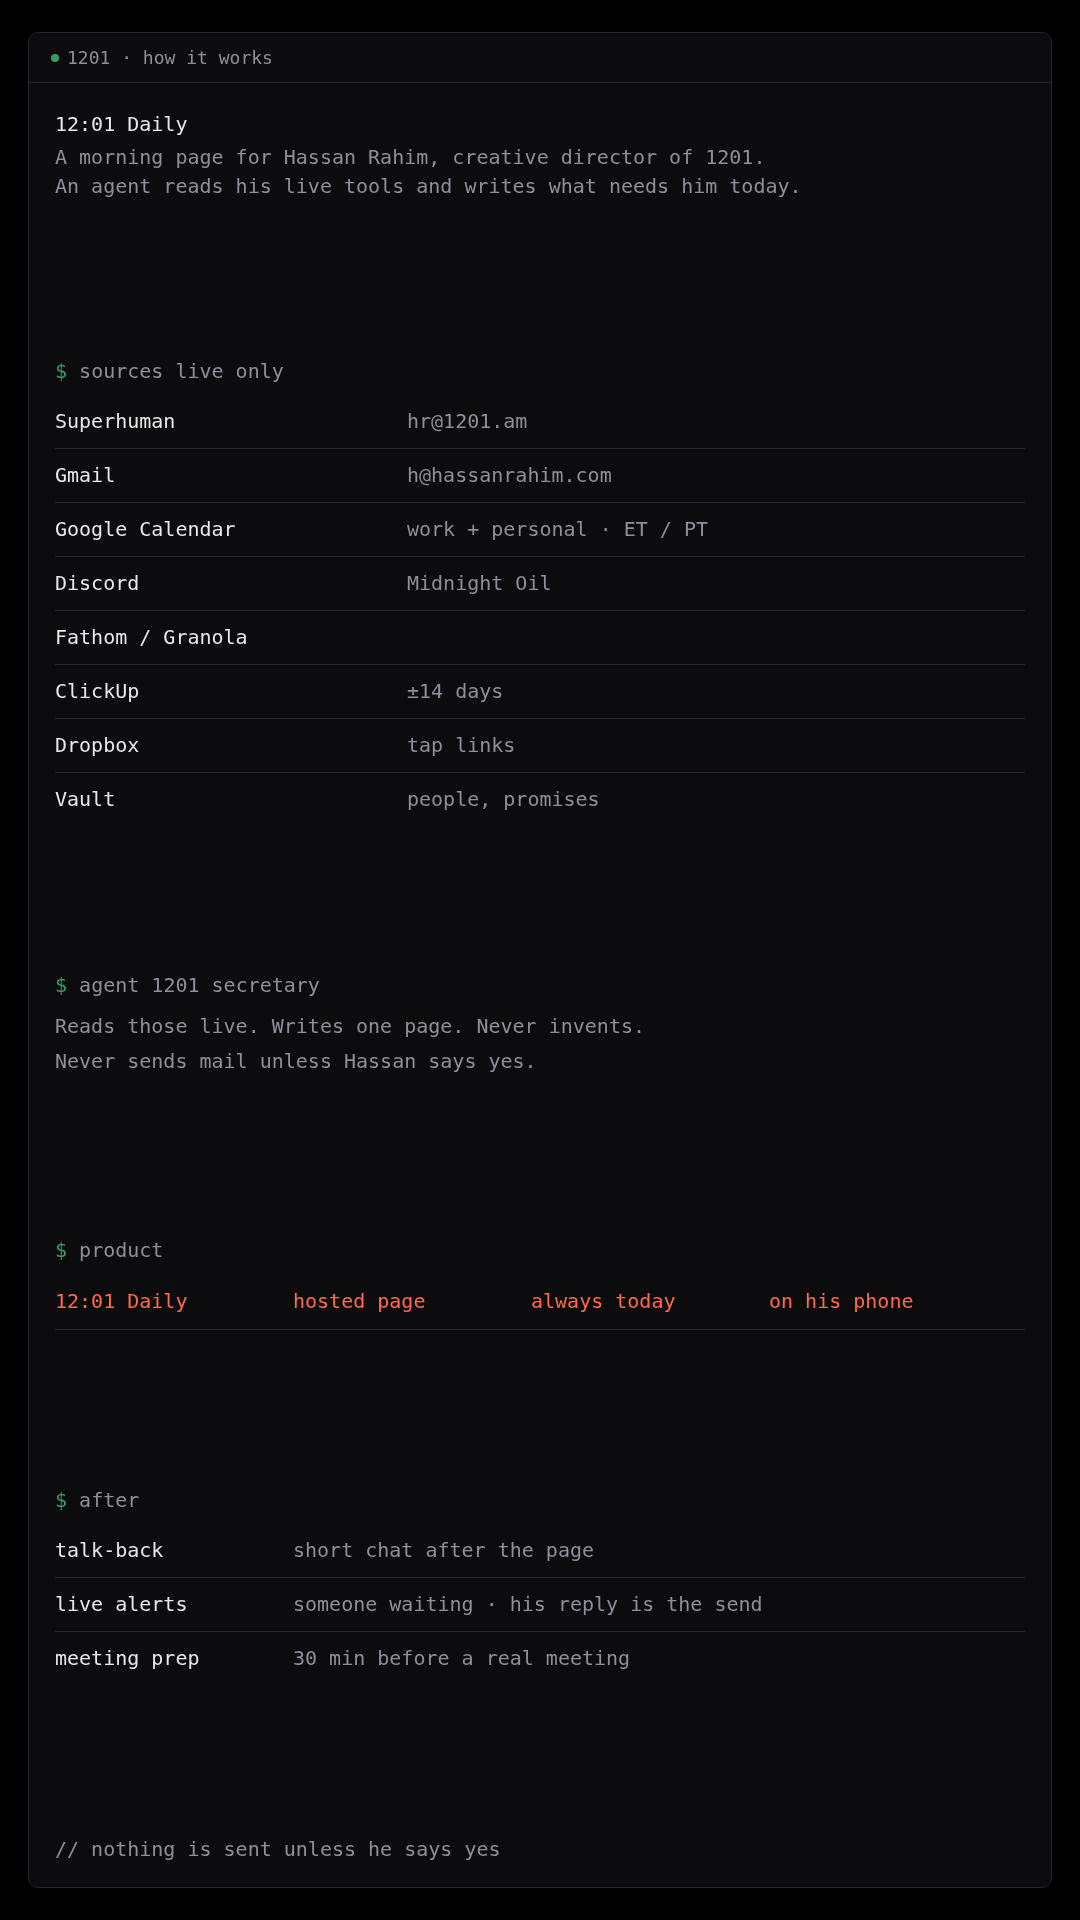
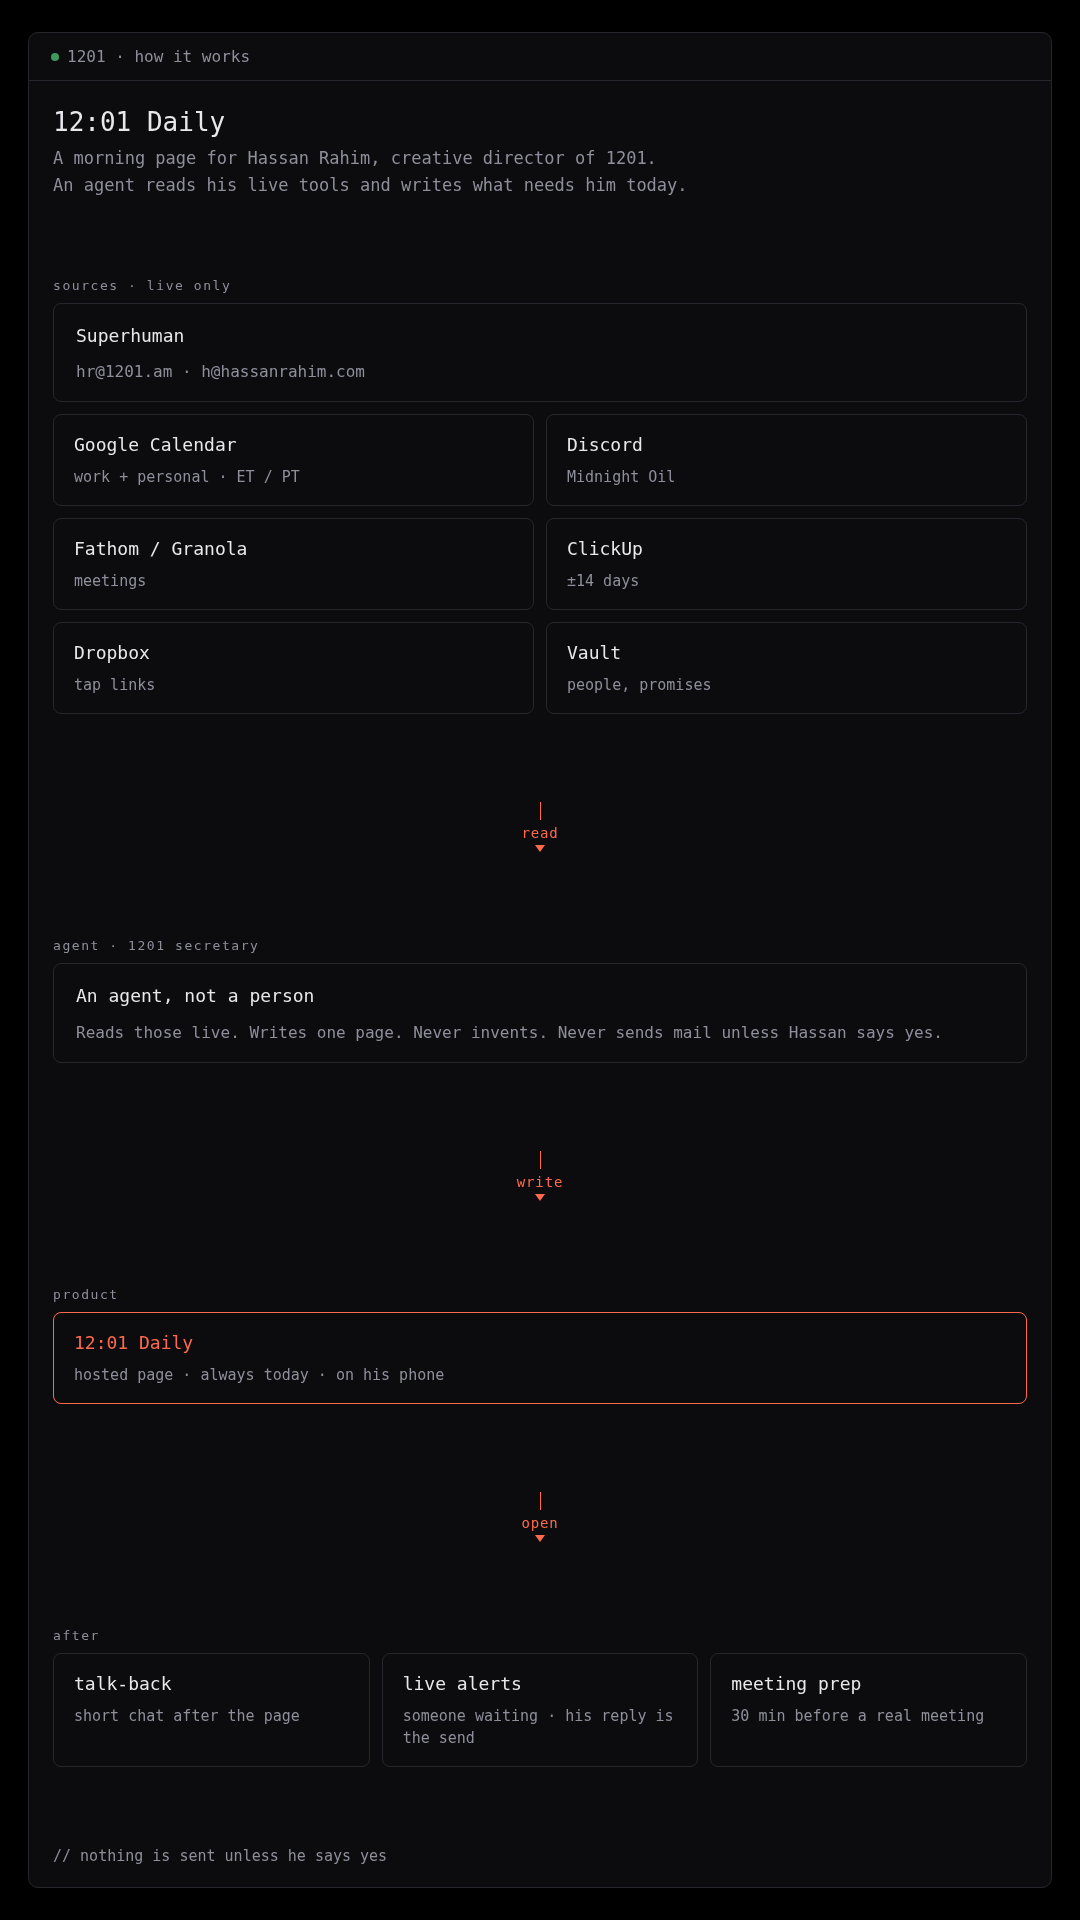
CLI flowchart: agent, service-name sources
Proposal pages only. Live Daily unchanged.

diff --git a/proposals/system/how.html b/proposals/system/how.html
@@ -4,7 +4,7 @@
 <meta charset="utf-8">
 <meta name="viewport" content="width=device-width, initial-scale=1">
 <title>12:01 Daily · How it works</title>
-<link rel="stylesheet" href="system.css?v=9">
+<link rel="stylesheet" href="system.css?v=10">
 <style>
 .lede { margin: 0 0 8px; font-size: 17px; line-height: 1.5; }
 .box {
@@ -18,14 +18,53 @@
 .box p { margin: 0; color: var(--muted); font-size: 15px; line-height: 1.5; }
 .box.peak { border-color: var(--accent); }
 .arr { text-align: center; color: var(--accent); font-size: 13px; font-weight: 620; letter-spacing: 0.08em; text-transform: uppercase; padding: 2px 0 12px; }
-.term .lg .ln { display: flex; flex-wrap: wrap; gap: 0 10px; padding: 8px 0; border-bottom: 1px solid var(--rule); margin: 0; color: var(--muted); }
-.term .lg .ln:last-child { border-bottom: none; padding-bottom: 2px; }
-.term .lg .k { color: var(--fg); min-width: 10.5em; }
-.term .peakline { color: var(--accent); padding: 8px 0; }
-.term .cmd { color: var(--muted); margin: 12px 0 4px; }
-.term .cmd:first-child { margin-top: 0; }
-.term .cmd .dl { color: var(--ok); }
-.term .note { color: var(--muted); margin: 0 0 3px; }
+.term .sec {
+  color: var(--muted);
+  font-size: 12px;
+  letter-spacing: 0.12em;
+  text-transform: lowercase;
+  padding: 4px 0 10px;
+}
+.term .col { display: flex; flex-direction: column; gap: 10px; }
+.term .row2 { display: grid; grid-template-columns: 1fr 1fr; gap: 10px; }
+.term .row3 { display: grid; grid-template-columns: 1fr; gap: 10px; }
+@media (min-width: 560px) {
+  .term .row3 { grid-template-columns: 1fr 1fr 1fr; }
+}
+.term .sbox {
+  background: transparent;
+  border: 1px solid var(--rule);
+  border-radius: 8px;
+  padding: 14px 16px 12px;
+}
+.term .sbox .k { color: var(--fg); }
+.term .sbox .v { color: var(--muted); margin-top: 8px; }
+.term .sbox.peak { border-color: var(--accent); }
+.term .sbox.peak .k { color: var(--accent); }
+.term .flow {
+  display: flex;
+  flex-direction: column;
+  align-items: center;
+  padding: 12px 0 10px;
+}
+.term .flow .spine {
+  width: 1px;
+  height: 16px;
+  background: var(--accent);
+}
+.term .flow .lab {
+  color: var(--accent);
+  font-size: 13px;
+  letter-spacing: 0.06em;
+  padding: 5px 0 4px;
+}
+.term .flow .head {
+  width: 0;
+  height: 0;
+  border-left: 5px solid transparent;
+  border-right: 5px solid transparent;
+  border-top: 7px solid var(--accent);
+}
 </style>
 </head>
 <body>
@@ -48,27 +87,49 @@
     <div class="term">
       <div class="term-hd"><span class="dot" aria-hidden="true"></span>1201 · how it works</div>
       <div class="term-bd">
-        <div class="cmd"><span class="dl">$</span> sources   live only</div>
-        <div class="lg">
-          <div class="ln"><span class="k">Superhuman</span><span>hr@1201.am</span></div>
-          <div class="ln"><span class="k">Gmail</span><span>h@hassanrahim.com</span></div>
-          <div class="ln"><span class="k">Google Calendar</span><span>work + personal · ET / PT</span></div>
-          <div class="ln"><span class="k">Discord</span><span>Midnight Oil</span></div>
-          <div class="ln"><span class="k">Fathom / Granola</span></div>
-          <div class="ln"><span class="k">ClickUp</span><span>±14 days</span></div>
-          <div class="ln"><span class="k">Dropbox</span><span>tap links</span></div>
-          <div class="ln"><span class="k">Vault</span><span>people, promises</span></div>
+        <div class="sec">sources · live only</div>
+        <div class="col">
+          <div class="sbox">
+            <div class="k">Superhuman</div>
+            <div class="v">hr@1201.am · h@hassanrahim.com</div>
+          </div>
+          <div class="row2">
+            <div class="sbox"><div class="k">Google Calendar</div><div class="v">work + personal · ET / PT</div></div>
+            <div class="sbox"><div class="k">Discord</div><div class="v">Midnight Oil</div></div>
+          </div>
+          <div class="row2">
+            <div class="sbox"><div class="k">Fathom / Granola</div><div class="v">meetings</div></div>
+            <div class="sbox"><div class="k">ClickUp</div><div class="v">±14 days</div></div>
+          </div>
+          <div class="row2">
+            <div class="sbox"><div class="k">Dropbox</div><div class="v">tap links</div></div>
+            <div class="sbox"><div class="k">Vault</div><div class="v">people, promises</div></div>
+          </div>
         </div>
-        <div class="cmd"><span class="dl">$</span> agent   1201 secretary</div>
-        <p class="note">Reads those live. Writes one page. Never invents.</p>
-        <p class="note">Never sends mail unless Hassan says yes.</p>
-        <div class="cmd"><span class="dl">$</span> product</div>
-        <div class="peakline">12:01 Daily     hosted page     always today     on his phone</div>
-        <div class="cmd"><span class="dl">$</span> after</div>
-        <div class="lg">
-          <div class="ln"><span class="k">talk-back</span><span>short chat after the page</span></div>
-          <div class="ln"><span class="k">live alerts</span><span>someone waiting · his reply is the send</span></div>
-          <div class="ln"><span class="k">meeting prep</span><span>30 min before a real meeting</span></div>
+
+        <div class="flow"><div class="spine"></div><div class="lab">read</div><div class="head"></div></div>
+
+        <div class="sec">agent · 1201 secretary</div>
+        <div class="sbox">
+          <div class="k">An agent, not a person</div>
+          <div class="v">Reads those live. Writes one page. Never invents. Never sends mail unless Hassan says yes.</div>
+        </div>
+
+        <div class="flow"><div class="spine"></div><div class="lab">write</div><div class="head"></div></div>
+
+        <div class="sec">product</div>
+        <div class="sbox peak">
+          <div class="k">12:01 Daily</div>
+          <div class="v">hosted page · always today · on his phone</div>
+        </div>
+
+        <div class="flow"><div class="spine"></div><div class="lab">open</div><div class="head"></div></div>
+
+        <div class="sec">after</div>
+        <div class="row3">
+          <div class="sbox"><div class="k">talk-back</div><div class="v">short chat after the page</div></div>
+          <div class="sbox"><div class="k">live alerts</div><div class="v">someone waiting · his reply is the send</div></div>
+          <div class="sbox"><div class="k">meeting prep</div><div class="v">30 min before a real meeting</div></div>
         </div>
         <div class="fu">// nothing is sent unless he says yes</div>
       </div>
@@ -80,7 +141,7 @@
   <section>
     <div class="box">
       <h3>Sources</h3>
-      <p>Superhuman (hr@1201.am) — people waiting, needs a yes. Gmail (h@hassanrahim.com) — people waiting, skip newsletters. Google Calendar for work and personal; Google is the source of truth. Label ET vs PT. Skip junk holds. Discord is Midnight Oil. Fathom / Granola for meetings. ClickUp, due ±14 days or updated this week. Dropbox tap links. Vault: who people are, what he already promised.</p>
+      <p>Superhuman is all mail: hr@1201.am and h@hassanrahim.com. Gmail is only a fallback if Superhuman cannot see an inbox. Google Calendar is the source of truth for work and personal. Label ET vs PT. Skip junk holds. Discord is Midnight Oil. Fathom / Granola for meetings. ClickUp, due ±14 days or updated this week. Dropbox tap links. Vault: who people are, what he already promised.</p>
     </div>
     <div class="box">
       <h3>An agent · 1201 secretary</h3>

diff --git a/proposals/system/how-poster.html b/proposals/system/how-poster.html
@@ -29,7 +29,7 @@
     padding: 14px 22px;
     border-bottom: 1px solid #26262d;
     color: #8f8f9c;
-    font-size: 18px;
+    font-size: 16px;
     flex: 0 0 auto;
   }
   .dot {
@@ -41,52 +41,55 @@
   }
   .term-bd {
     flex: 1;
-    padding: 28px 26px 24px;
+    padding: 26px 24px 22px;
     display: flex;
     flex-direction: column;
     justify-content: space-between;
-    font-size: 20px;
-    line-height: 1.35;
   }
-  .pl { color: #e8e8ec; margin: 0 0 6px; }
-  .lede { color: #8f8f9c; margin: 0; }
+  .pl { color: #e8e8ec; margin: 0 0 8px; font-size: 26px; line-height: 1.2; }
+  .lede { color: #8f8f9c; margin: 0; font-size: 17px; line-height: 1.45; }
   .lede + .lede { margin-top: 2px; }
-  .cmd {
-    color: #8f8f9c;
-    padding: 4px 0 10px;
+  .sec { color: #8f8f9c; font-size: 13px; letter-spacing: 0.12em; text-transform: lowercase; padding: 0 0 10px; }
+  .row2 { display: grid; grid-template-columns: 1fr 1fr; gap: 12px; }
+  .row3 { display: grid; grid-template-columns: 1fr 1fr 1fr; gap: 12px; }
+  .col { display: flex; flex-direction: column; gap: 12px; }
+  .box {
+    background: transparent;
+    border: 1px solid #26262d;
+    border-radius: 8px;
+    padding: 18px 20px 16px;
   }
-  .cmd .dl { color: #3d9a5f; }
-  .lg { color: #8f8f9c; }
-  .ln {
-    display: grid;
-    grid-template-columns: 16.5em 1fr;
-    gap: 0 22px;
-    padding: 13px 0;
-    border-bottom: 1px solid #26262d;
-    align-items: baseline;
+  .box .k { color: #e8e8ec; font-size: 18px; line-height: 1.35; }
+  .box .v { color: #8f8f9c; font-size: 15px; margin-top: 10px; line-height: 1.45; }
+  .wide { padding: 20px 22px 18px; }
+  .wide .v { font-size: 16px; margin-top: 12px; }
+  .peak { border-color: #ff6a4d; }
+  .peak .k { color: #ff6a4d; }
+  .flow {
+    display: flex;
+    flex-direction: column;
+    align-items: center;
+    padding: 8px 0 6px;
   }
-  .ln:last-child { border-bottom: none; padding-bottom: 2px; }
-  .ln .a { color: #e8e8ec; }
-  .ln2 {
-    display: grid;
-    grid-template-columns: 11em 1fr;
-    gap: 0 18px;
-    padding: 13px 0;
-    border-bottom: 1px solid #26262d;
-    align-items: baseline;
+  .flow .spine {
+    width: 1px;
+    height: 18px;
+    background: #ff6a4d;
   }
-  .ln2:last-child { border-bottom: none; padding-bottom: 2px; }
-  .ln2 .a { color: #e8e8ec; }
-  .note { color: #8f8f9c; margin: 0; padding: 4px 0; }
-  .peak {
-    display: grid;
-    grid-template-columns: 11em 11em 11em 1fr;
-    gap: 0 18px;
-    padding: 14px 0;
+  .flow .lab {
     color: #ff6a4d;
-    border-bottom: 1px solid #26262d;
+    font-size: 14px;
+    letter-spacing: 0.06em;
+    padding: 5px 0 4px;
   }
-  .foot { color: #8f8f9c; margin: 0; padding-top: 8px; }
+  .flow .head {
+    width: 0;
+    height: 0;
+    border-left: 5px solid transparent;
+    border-right: 5px solid transparent;
+    border-top: 7px solid #ff6a4d;
+  }
+  .foot { color: #8f8f9c; font-size: 15px; margin: 0; }
 </style>
 </head>
 <body>
@@ -100,36 +103,55 @@
       </div>
 
       <div>
-        <div class="cmd"><span class="dl">$</span> sources<span>   live only</span></div>
-        <div class="lg">
-          <div class="ln"><span class="a">Superhuman</span><span>hr@1201.am</span></div>
-          <div class="ln"><span class="a">Gmail</span><span>h@hassanrahim.com</span></div>
-          <div class="ln"><span class="a">Google Calendar</span><span>work + personal · ET / PT</span></div>
-          <div class="ln"><span class="a">Discord</span><span>Midnight Oil</span></div>
-          <div class="ln"><span class="a">Fathom / Granola</span><span></span></div>
-          <div class="ln"><span class="a">ClickUp</span><span>±14 days</span></div>
-          <div class="ln"><span class="a">Dropbox</span><span>tap links</span></div>
-          <div class="ln"><span class="a">Vault</span><span>people, promises</span></div>
+        <div class="sec">sources · live only</div>
+        <div class="col">
+          <div class="box wide">
+            <div class="k">Superhuman</div>
+            <div class="v">hr@1201.am · h@hassanrahim.com</div>
+          </div>
+          <div class="row2">
+            <div class="box"><div class="k">Google Calendar</div><div class="v">work + personal · ET / PT</div></div>
+            <div class="box"><div class="k">Discord</div><div class="v">Midnight Oil</div></div>
+          </div>
+          <div class="row2">
+            <div class="box"><div class="k">Fathom / Granola</div><div class="v">meetings</div></div>
+            <div class="box"><div class="k">ClickUp</div><div class="v">±14 days</div></div>
+          </div>
+          <div class="row2">
+            <div class="box"><div class="k">Dropbox</div><div class="v">tap links</div></div>
+            <div class="box"><div class="k">Vault</div><div class="v">people, promises</div></div>
+          </div>
         </div>
       </div>
 
-      <div>
-        <div class="cmd"><span class="dl">$</span> agent<span>   1201 secretary</span></div>
-        <div class="note">Reads those live. Writes one page. Never invents.</div>
-        <div class="note">Never sends mail unless Hassan says yes.</div>
-      </div>
+      <div class="flow"><div class="spine"></div><div class="lab">read</div><div class="head"></div></div>
 
       <div>
-        <div class="cmd"><span class="dl">$</span> product</div>
-        <div class="peak"><span>12:01 Daily</span><span>hosted page</span><span>always today</span><span>on his phone</span></div>
+        <div class="sec">agent · 1201 secretary</div>
+        <div class="box wide">
+          <div class="k">An agent, not a person</div>
+          <div class="v">Reads those live. Writes one page. Never invents. Never sends mail unless Hassan says yes.</div>
+        </div>
       </div>
 
+      <div class="flow"><div class="spine"></div><div class="lab">write</div><div class="head"></div></div>
+
       <div>
-        <div class="cmd"><span class="dl">$</span> after</div>
-        <div class="lg">
-          <div class="ln2"><span class="a">talk-back</span><span>short chat after the page</span></div>
-          <div class="ln2"><span class="a">live alerts</span><span>someone waiting · his reply is the send</span></div>
-          <div class="ln2"><span class="a">meeting prep</span><span>30 min before a real meeting</span></div>
+        <div class="sec">product</div>
+        <div class="box peak">
+          <div class="k">12:01 Daily</div>
+          <div class="v">hosted page · always today · on his phone</div>
+        </div>
+      </div>
+
+      <div class="flow"><div class="spine"></div><div class="lab">open</div><div class="head"></div></div>
+
+      <div>
+        <div class="sec">after</div>
+        <div class="row3">
+          <div class="box"><div class="k">talk-back</div><div class="v">short chat after the page</div></div>
+          <div class="box"><div class="k">live alerts</div><div class="v">someone waiting · his reply is the send</div></div>
+          <div class="box"><div class="k">meeting prep</div><div class="v">30 min before a real meeting</div></div>
         </div>
       </div>
 
